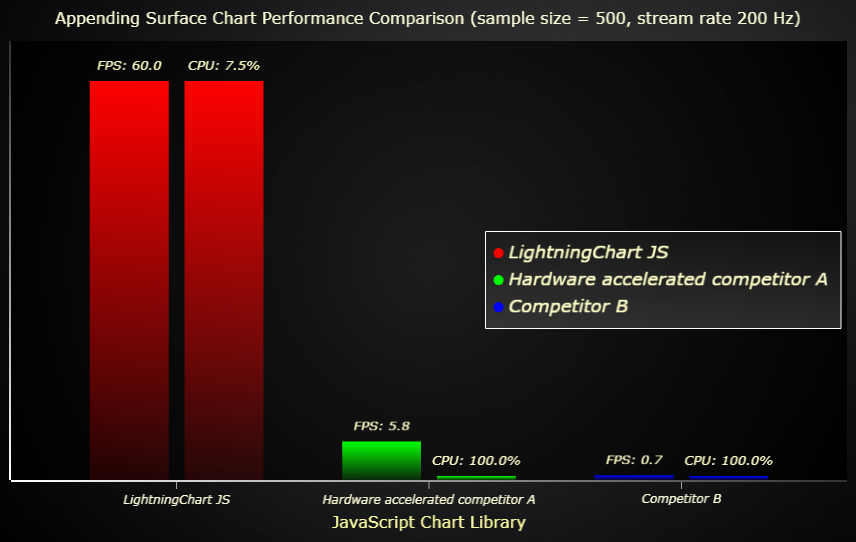
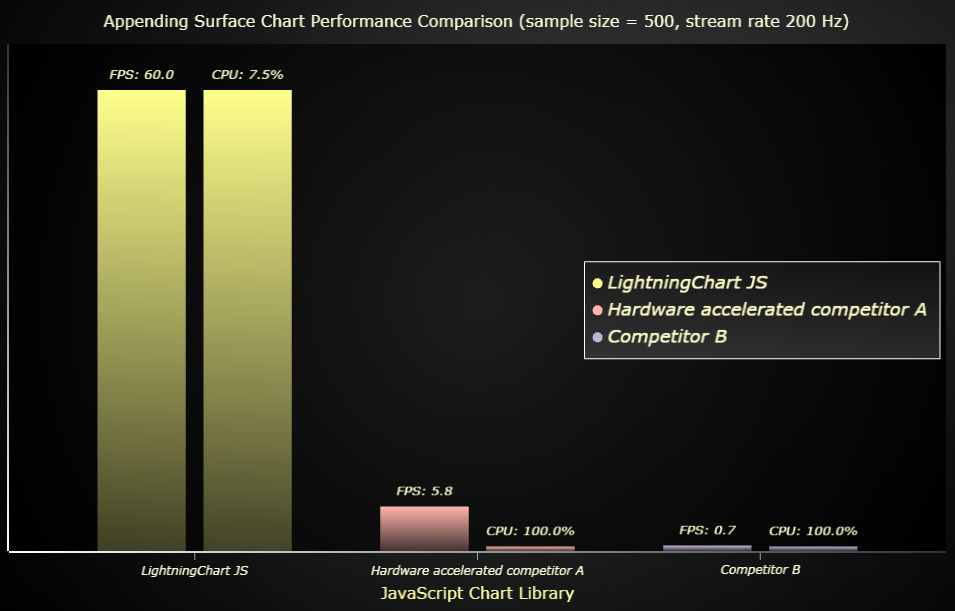
Draft

Changed region(s): [[0.0, 0.0886, 1.0, 1.0], [0.5467, 0.4133, 1.0, 0.6199], [0.0607, 0.0, 1.0, 0.0886]]

diff --git a/bench/bench.js b/bench/bench.js
@@ -1,15 +1,9 @@
-(async () => {
+requestAnimationFrame(async () => {
   console.log("start benchmark");
   console.log(BENCHMARK_CONFIG);
 
-  const { createSpectrumDataGenerator } = xydata;
-  const surfaceAppendRowsCount = Math.ceil(BENCHMARK_CONFIG.appendNewSamplesPerSecond * BENCHMARK_CONFIG.appendTimeDomainIntervalSeconds)
-  const promiseTestData1 = createSpectrumDataGenerator()
-    .setSampleSize(BENCHMARK_CONFIG.mode === 'append' ? BENCHMARK_CONFIG.appendSampleSize : BENCHMARK_CONFIG.columns)
-    .setNumberOfSamples(BENCHMARK_CONFIG.mode === 'append' ? surfaceAppendRowsCount * 2 : BENCHMARK_CONFIG.rows)
-    .generate()
-    .toPromise();
-
+  const promiseTestDataSets = generateTestDataSets()
+  
   const promiseBenchmarkImplementation = new Promise((resolve, reject) => {
     const benchScriptName = `./bench_${BENCHMARK_CONFIG.library}.js`;
     const benchScript = document.createElement("script");
@@ -18,10 +12,11 @@
     document.body.append(benchScript);
   });
 
-  const [testData1] = await Promise.all([
-    promiseTestData1,
+  const [testDataSets] = await Promise.all([
+    promiseTestDataSets,
     promiseBenchmarkImplementation,
   ]);
+  const testData1 = testDataSets[0]
 
   console.log("benchmark ready");
   console.log(BENCHMARK_IMPLEMENTATION);
@@ -109,27 +104,111 @@
     }
 
     if (BENCHMARK_CONFIG.mode === "refresh") {
-
-      const testData2 = await createSpectrumDataGenerator()
-        .setSampleSize(BENCHMARK_CONFIG.columns)
-        .setNumberOfSamples(BENCHMARK_CONFIG.rows)
-        .generate()
-        .toPromise();
-
-      let tPrev = window.performance.now()
-      let iDataSet = 0
+      let tStart = window.performance.now()
+      let iRefresh = 0
+      let tPrevDataSet = -1
       const onEveryFrame = () => {
         const tNow = window.performance.now()
-        const tDelta = tNow - tPrev
-        if (tDelta >= 1000 / BENCHMARK_CONFIG.refreshRate) {
-          iDataSet = (iDataSet + 1) % 2
-          const dataSet = iDataSet === 0 ? testData1 : testData2
+        const tAnimation = tNow - tStart
+        iRefresh += 1
+        const iDataSet = Math.round( tAnimation / (1000 / BENCHMARK_CONFIG.refreshRate) ) % testDataSets.length
+        if (tPrevDataSet !== iDataSet) {
+          tPrevDataSet = iDataSet
+          const dataSet = testDataSets[iDataSet]
           BENCHMARK_IMPLEMENTATION.refreshData(dataSet)
-          tPrev = tNow
         }
         requestAnimationFrame(onEveryFrame)
       }
       onEveryFrame()
     }
   });
-})();
+})
+
+const generateTestDataSets = async () => {
+  const { createSpectrumDataGenerator, createWaterDropDataGenerator } = xydata;
+
+  if (BENCHMARK_CONFIG.mode === 'static') {
+    return [await createSpectrumDataGenerator()
+      .setSampleSize(BENCHMARK_CONFIG.columns)
+      .setNumberOfSamples(BENCHMARK_CONFIG.rows)
+      .generate()
+      .toPromise()]
+  } else if (BENCHMARK_CONFIG.mode === 'append') {
+    const surfaceAppendRowsCount = Math.ceil(BENCHMARK_CONFIG.appendNewSamplesPerSecond * BENCHMARK_CONFIG.appendTimeDomainIntervalSeconds)
+    return [await createSpectrumDataGenerator()
+      .setSampleSize(BENCHMARK_CONFIG.appendSampleSize)
+      .setNumberOfSamples(surfaceAppendRowsCount * 2)
+      .generate()
+      .toPromise()]
+  }
+  // Refreshing mode
+  
+  const interpolateDataSets = await Promise.all([
+    createWaterDropDataGenerator()
+      .setWaterDrops([
+          {
+              columnNormalized: 0.22,
+              rowNormalized: 0.2,
+              amplitude: 54,
+          },
+      ])
+      .setRows(BENCHMARK_CONFIG.rows)
+      .setColumns(BENCHMARK_CONFIG.columns)
+      .generate()
+      .then(data => data.map(row => row.map(y => y * .01)))
+    ,
+    createWaterDropDataGenerator()
+      .setWaterDrops([
+          {
+              columnNormalized: 0.7,
+              rowNormalized: 0.56,
+              amplitude: 14,
+          },
+      ])
+      .setRows(BENCHMARK_CONFIG.rows)
+      .setColumns(BENCHMARK_CONFIG.columns)
+      .generate()
+      .then(data => data.map(row => row.map(y => y * .01)))
+    ,
+    createWaterDropDataGenerator()
+      .setWaterDrops([
+          {
+              columnNormalized: 0.3,
+              rowNormalized: 0.7,
+              amplitude: 32,
+          },
+      ])
+      .setRows(BENCHMARK_CONFIG.rows)
+      .setColumns(BENCHMARK_CONFIG.columns)
+      .generate()
+      .then(data => data.map(row => row.map(y => y * .01)))
+  ])
+  
+  const animationStepsPerDataSet = BENCHMARK_CONFIG.refreshRate === 60 ? 30 : 5
+  console.log('generating', animationStepsPerDataSet, 'refresh animation steps')
+  const dataSets = []
+  for (let d = 0; d < interpolateDataSets.length; d += 1 ) {
+    const dataSetA = interpolateDataSets[d]
+    const dataSetB = interpolateDataSets[(d + 1) % interpolateDataSets.length]
+    for (let i = 0; i < animationStepsPerDataSet; i += 1) {
+      const interpolationAmount = i / (animationStepsPerDataSet - 1)
+      if (interpolationAmount === 0) {
+        dataSets.push(dataSetA)
+      } else if (interpolationAmount === 1) {
+        dataSets.push(dataSetB)
+      } else {
+        const interpolatedDataSet = []
+        for (let row = 0; row < BENCHMARK_CONFIG.rows; row += 1 ) {
+          interpolatedDataSet.push([])
+          for (let column = 0; column < BENCHMARK_CONFIG.columns; column += 1) {
+            const a = dataSetA[row][column]
+            const b = dataSetB[row][column]
+            interpolatedDataSet[row][column] = a + (b - a) * interpolationAmount
+          }
+        }
+        dataSets.push(interpolatedDataSet)
+      }
+    }
+  }
+  return dataSets
+}

diff --git a/bench/results-viz.js b/bench/results-viz.js
@@ -30,6 +30,7 @@ if (!target) {
       UILayoutBuilders,
       UIBackgrounds,
       Themes,
+      ColorRGBA,
     } = lcjs;
 
     // ----- REFRESHING -----
@@ -60,17 +61,18 @@ if (!target) {
 
     if (target === 'refresh') {
         data = {
-            chartTitle: 'Refreshing Surface Chart Performance Comparison (2000x2000 Grid)',
+            chartTitle: 'Surface Chart Real-Time Performance Comparison (2000x2000 Grid, 10 Hz refresh rate)',
             categoryAxisTitle: 'JavaScript Chart Library',
             valueAxisTitle: '',
             values: [
               { name: 'LightningChart JS', values: [
-                  { value: 60, label: 'FPS: 60.0' },
+                  // NOTE: FPS measurements over refresh rate (10) are clamped.
+                  { value: Math.min(10, 60), label: 'FPS: 10.0' },
                   { value: 100 - 15.5, label: 'CPU: 15.5%' }
               ] },
               {
                   name: 'Hardware accelerated competitor A', values: [
-                      { value: 2.2, label: 'FPS: 2.2' },
+                      { value: Math.min(10, 2.2), label: 'FPS: 2.2' },
                       { value: 100 - 100.0, label: 'CPU: 100.0%' }
                   ]
               },
@@ -111,8 +113,9 @@ if (!target) {
           }
     }
 
-    const chart = lightningChart().ChartXY()
-      .setTitle(data.chartTitle)
+    const chart = lightningChart()
+        .ChartXY({theme: Themes.darkGold})
+        .setTitle(data.chartTitle)
 
     const axisX = chart.getDefaultAxisX()
       .setTitle(data.categoryAxisTitle)
@@ -123,6 +126,8 @@ if (!target) {
         .setOrigin(UIOrigins.RightTop)
         .setMargin(16)
         .setPadding(8)
+
+    const fillStyles = new Array(5).fill(0).map((_, i) => chart.getTheme().seriesFillStyle(i * 3))
 
     const valuesCount = data.values.reduce((prev, cur) => Math.max(prev, cur.values.length), 0)
     const yValuesMax = new Array(valuesCount).fill(0).map((_, i) => 
@@ -144,7 +149,7 @@ if (!target) {
     data.values.forEach((category, iCategory) => {
         const { name, values } = category
         const xCategoryStart = x
-        const color = ColorHSV(iCategory * 360 / data.values.length)
+        const color = fillStyles[iCategory].getColor()
         const entry = legend.addElement(UIElementBuilders.CheckBox)
             .setButtonOnFillStyle(new SolidFill({color}))
             .setOn(true)
@@ -170,7 +175,7 @@ if (!target) {
                 })
                 bar.setFillStyle(new LinearGradientFill({
                     stops: [
-                        {offset: 0, color: color.setA(30)},
+                        {offset: 0, color: color.setA(60)},
                         {offset: 1, color}
                     ]
                 }))

diff --git a/bench/scichart/src/app.ts b/bench/scichart/src/app.ts
@@ -15,6 +15,7 @@ import { UniformGridDataSeries3D } from "scichart/Charting3D/Model/DataSeries/Un
 import { NumberRange } from "scichart/Core/NumberRange";
 import { zeroArray2D } from "scichart/utils/zeroArray2D";
 import { TSciChart3D } from "scichart/types/TSciChart3D";
+import { EAutoRange } from "scichart/types/AutoRange";
 
 declare let BENCHMARK_CONFIG: {
   library: "scichart",
@@ -98,6 +99,7 @@ declare let BENCHMARK_CONFIG: {
         series = new SurfaceMeshRenderableSeries3D(wasmContext, {
             dataSeries,
             meshColorPalette: colorMap,
+            drawMeshAs: EDrawMeshAs.SOLID_MESH,
         });
         sciChart3DSurface.renderableSeries.add(series);
 
@@ -122,6 +124,9 @@ declare let BENCHMARK_CONFIG: {
 
     // NOTE: For some reason, chart is not refreshed after calling setYValues. I haven't found any reference how this refresh should be properly triggered so just using random axis titles as a hotfix.
     sciChart3DSurface.xAxis.axisTitle = Math.random().toFixed(2)
+    sciChart3DSurface.xAxis.autoRange = EAutoRange.Always
+    // sciChart3DSurface.zAxis.autoRange = EAutoRange.Always
+    // sciChart3DSurface.zAxis.visibleRange = new NumberRange(0, 500)
   };
 
   const refreshData = (data) => {

diff --git a/bench/bench_lcjs.js b/bench/bench_lcjs.js
@@ -16,7 +16,8 @@ const BENCHMARK_IMPLEMENTATION = (() => {
 
       chart = lightningChart().Chart3D({
         container: document.getElementById("chart"),
-      });
+      })
+        .setTitle('')
 
       chart
         .getDefaultAxisY()
@@ -60,6 +61,8 @@ const BENCHMARK_IMPLEMENTATION = (() => {
         })
         chart.getDefaultAxisZ().setScrollStrategy(AxisScrollStrategies.progressive).setInterval(0, -surfaceRows)
       }
+      
+      chart.setBoundingBoxStrokeStyle(emptyLine)
 
       surface
         .setFillStyle(new PalettedFill({
@@ -67,8 +70,9 @@ const BENCHMARK_IMPLEMENTATION = (() => {
           lut: new LUT({
             interpolate: true,
             steps: [
-              {value: 0, color: ColorRGBA(0, 0, 255)},
-              {value: 1, color: ColorRGBA(255, 0, 0)}
+              {value: 0.3, color: ColorRGBA(0, 0, 255)},
+              {value: 0.5, color: ColorRGBA(0, 255, 0)},
+              {value: .8, color: ColorRGBA(255, 0, 0)}
             ]
           })
         }))

diff --git a/bench/config.js b/bench/config.js
@@ -2,17 +2,17 @@ const BENCHMARK_CONFIG = {
   // "lcjs" | "plotly" | "scichart"
   library: "lcjs",
   // "static" | "append" | "refresh"
-  mode: "static",
+  mode: "append",
   // Only affects "static" and "refresh" modes!
   columns: 1000,
   // Only affects "static" and "refresh" modes!
   rows: 1000,
   // In "refresh" mode, amount of refreshes every second.
-  refreshRate: 10,
-  ticksEnabled: false,
+  refreshRate: 60,
+  ticksEnabled: true,
   yAxisInterval: [0, 1.2],
   // In "append" mode, the size of each sample as well as one size of surface grid.
-  appendSampleSize: 100,
+  appendSampleSize: 300,
   // In "append" mode, amount of samples pushed every second.
   appendNewSamplesPerSecond: 100,
   // In "append" mode, interval of x axis as seconds as well as one size of surface grid.
